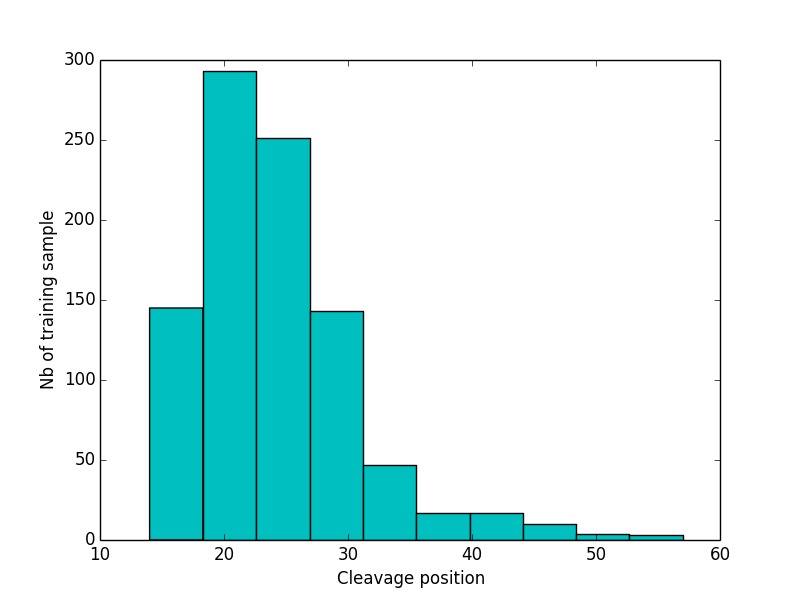
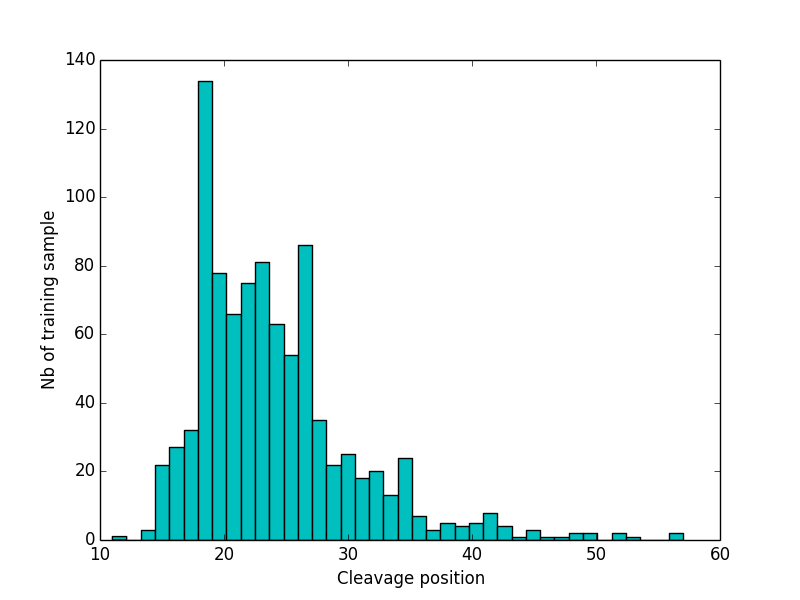
other result plots and more detailed histograms of cleavage position

diff --git a/visualisation.py b/visualisation.py
@@ -9,7 +9,7 @@ def cleavage_position_hist(data):
 	for sample in data:
 		cleavage_positions += [sample['annotationLine'].index('C')]
     
-	plt.hist(cleavage_positions, color='c')
+	plt.hist(cleavage_positions, bins=40, color='c')
 	plt.xlabel('Cleavage position')
 	plt.ylabel('Nb of training sample')
 	plt.show()
@@ -86,8 +86,10 @@ if __name__ == '__main__':
 	    		else:
 	    			nonpeptide_trainingdata += [sample]
 
-	    # cleavage_position_hist(peptide_visudata)
+	    # cleavage_position_hist(peptide_trainingdata)
 	    # get_peptides(peptide_trainingdata)
 	    # get_peptides(nonpeptide_trainingdata)
-	    all_result = np.array([[1, 0.68205128205128207], [3, 0.7384615384615385], [5, 0.71794871794871795], [7, 0.74102564102564106], [9, 0.80769230769230771], [11, 0.84358974358974359], [13, 0.84743589743589742], [15, 0.84358974358974359], [17, 0.88846153846153841], [19, 0.88461538461538458], [21, 0.86923076923076925], [23, 0.88205128205128203], [25, 0.85897435897435892], [27, 0.86410256410256414], [29, 0.84743589743589742], [31, 0.84999999999999998], [33, 0.82692307692307687], [35, 0.8371794871794872], [37, 0.77051282051282055], [39, 0.81282051282051282], [41, 0.80512820512820515], [43, 0.79358974358974355], [45, 0.78974358974358971], [47, 0.78205128205128205], [49, 0.7615384615384615], [51, 0.77051282051282055], [53, 0.77307692307692311], [55, 0.76282051282051277], [57, 0.75128205128205128], [59, 0.77820512820512822]])
-	    result_plot(all_result)
+	    # all_result = np.array([[1, 0.68205128205128207], [3, 0.7384615384615385], [5, 0.71794871794871795], [7, 0.74102564102564106], [9, 0.80769230769230771], [11, 0.84358974358974359], [13, 0.84743589743589742], [15, 0.84358974358974359], [17, 0.88846153846153841], [19, 0.88461538461538458], [21, 0.86923076923076925], [23, 0.88205128205128203], [25, 0.85897435897435892], [27, 0.86410256410256414], [29, 0.84743589743589742], [31, 0.84999999999999998], [33, 0.82692307692307687], [35, 0.8371794871794872], [37, 0.77051282051282055], [39, 0.81282051282051282], [41, 0.80512820512820515], [43, 0.79358974358974355], [45, 0.78974358974358971], [47, 0.78205128205128205], [49, 0.7615384615384615], [51, 0.77051282051282055], [53, 0.77307692307692311], [55, 0.76282051282051277], [57, 0.75128205128205128], [59, 0.77820512820512822]])
+	    tm_result = np.array([[1, 0.875], [3, 0.875], [5, 0.875], [7, 0.86250000000000004], [9, 0.88749999999999996], [11, 0.88749999999999996], [13, 0.88749999999999996], [15, 0.88749999999999996], [17, 0.90000000000000002], [19, 0.86250000000000004], [21, 0.875], [23, 0.875], [25, 0.94999999999999996], [27, 0.90000000000000002], [29, 0.90000000000000002], [31, 0.90000000000000002], [33, 0.86250000000000004], [35, 0.88749999999999996], [37, 0.86250000000000004], [39, 0.90000000000000002], [41, 0.88749999999999996], [43, 0.875], [45, 0.875], [47, 0.88749999999999996], [49, 0.875], [51, 0.875], [53, 0.875], [55, 0.88749999999999996], [57, 0.875], [59, 0.875]])
+	    nontm_result = np.array([[1, 0.71142857142857141], [3, 0.73285714285714287], [5, 0.75], [7, 0.79714285714285715], [9, 0.79571428571428571], [11, 0.8342857142857143], [13, 0.86142857142857143], [15, 0.88], [17, 0.88], [19, 0.91142857142857148], [21, 0.91285714285714281], [23, 0.91142857142857148], [25, 0.89142857142857146], [27, 0.89857142857142858], [29, 0.86285714285714288], [31, 0.85571428571428576], [33, 0.85857142857142854], [35, 0.85571428571428576], [37, 0.86142857142857143], [39, 0.83571428571428574], [41, 0.81428571428571428], [43, 0.81000000000000005], [45, 0.82571428571428573], [47, 0.7985714285714286], [49, 0.78857142857142859], [51, 0.78714285714285714], [53, 0.78142857142857147], [55, 0.7628571428571429], [57, 0.79285714285714282], [59, 0.79000000000000004]])
+	    result_plot(nontm_result)
